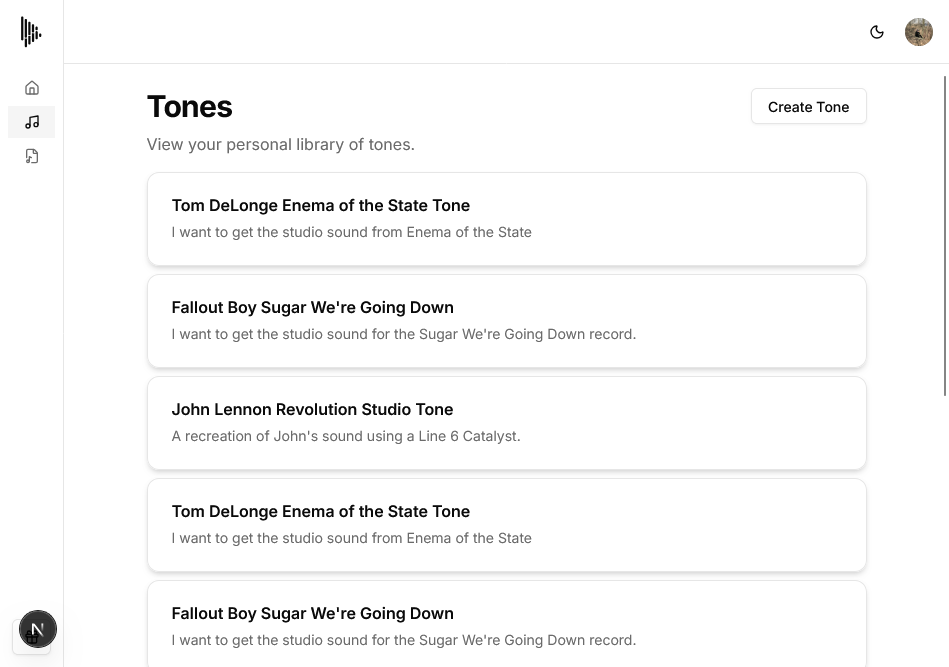
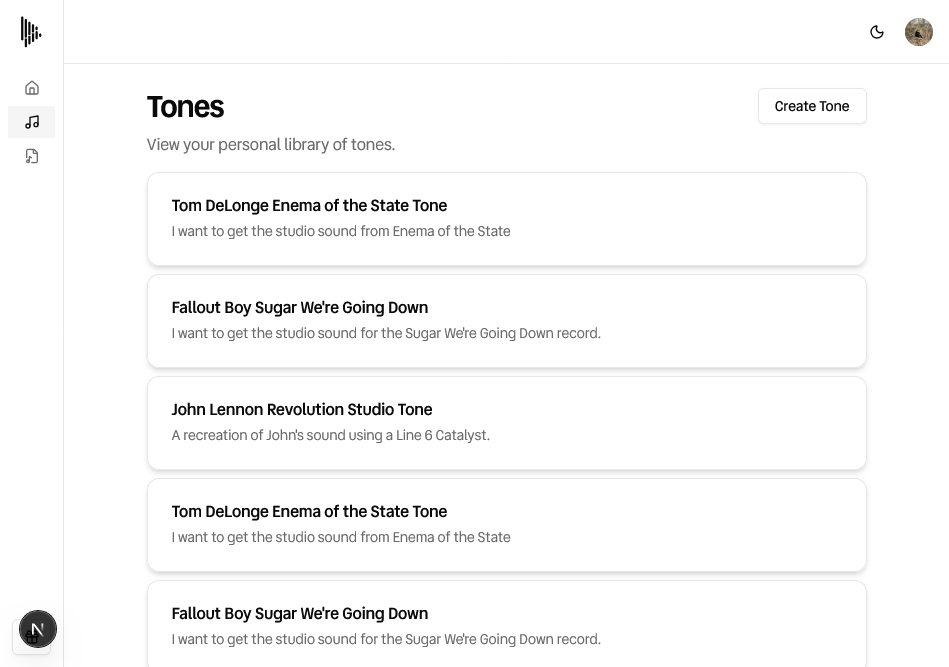
Landing page styling and font change

diff --git a/components/Header.tsx b/components/Header.tsx
@@ -4,19 +4,53 @@ import { SignedIn, SignedOut, SignInButton, SignUpButton, UserButton } from '@cl
 import { Button } from '@/components/ui/button';
 import { useState } from 'react';
 import { Menu, X } from 'lucide-react';
+import Image from 'next/image';
+import logo from '@/public/logo.svg';
+import logoDark from '@/public/logoDark.svg';
+import logoMobile from '@/public/logoMobile.svg';
+import logoMobileDark from '@/public/logoMobileDark.svg';
 
 export default function Header() {
   const [mobileMenu, setMobileMenu] = useState<boolean>(false);
   const navLinks = [
     { href: '#features', title: 'Features' },
     { href: '#pricing', title: 'Pricing' },
+    { href: '#get-started', title: 'Get started' },
   ];
 
   return (
-    <header className="bg-background fixed top-0 right-0 left-0 z-50 shadow-sm">
+    <header className="bg-background fixed top-0 right-0 left-0 z-50 border-b shadow-sm">
       <div className="relative flex items-center justify-between p-4">
-        <Link href="/">
-          <h1 className="text-xl font-bold italic">tono</h1>
+        <Link href="/" className="flex items-center">
+          {/* Light mode - Desktop logo */}
+          <Image
+            src={logo}
+            alt="Tonifier logo"
+            className="hidden h-8 w-auto lg:block dark:lg:hidden"
+            priority
+          />
+          {/* Light mode - Mobile logo */}
+          <Image
+            src={logoMobile}
+            alt="Tonifier logo"
+            className="block h-8 w-auto lg:hidden dark:hidden"
+            priority
+          />
+
+          {/* Dark mode - Desktop logo */}
+          <Image
+            src={logoDark}
+            alt="Tonifier logo"
+            className="hidden h-8 w-auto dark:lg:block"
+            priority
+          />
+          {/* Dark mode - Mobile logo */}
+          <Image
+            src={logoMobileDark}
+            alt="Tonifier logo"
+            className="hidden h-8 w-auto dark:block lg:dark:hidden"
+            priority
+          />
         </Link>
 
         <div className="flex items-center gap-8">
@@ -34,10 +68,12 @@ export default function Header() {
         <nav className="hidden items-center justify-between gap-4 lg:flex">
           <SignedOut>
             <SignUpButton>
-              <Button variant={'outline'}>Sign up</Button>
+              <Button variant={'outline'} className="cursor-pointer">
+                Sign up
+              </Button>
             </SignUpButton>
             <SignInButton>
-              <Button>Sign in</Button>
+              <Button className="cursor-pointer">Sign in</Button>
             </SignInButton>
           </SignedOut>
           <SignedIn>
@@ -62,14 +98,16 @@ export default function Header() {
             <nav className="bg-background fixed top-0 right-0 z-60 flex h-screen w-[80%] flex-col gap-4 p-8 pt-20 lg:hidden">
               <SignedOut>
                 {navLinks.map((link) => (
-                  <Link href={link.href} className="hover:text-primary text-sm font-medium">
+                  <Link
+                    key={link.title}
+                    href={link.href}
+                    className="hover:text-primary text-sm font-medium"
+                  >
                     {link.title}
                   </Link>
                 ))}
                 <SignUpButton>
-                  <Button variant={'outline'} className="text-base">
-                    Sign up
-                  </Button>
+                  <Button variant={'outline'}>Sign up</Button>
                 </SignUpButton>
                 <SignInButton>
                   <Button>Sign in</Button>

diff --git a/components/home/Pricing.tsx b/components/home/Pricing.tsx
@@ -92,8 +92,8 @@ export default function Pricing({ hasActiveSubscription = false }: PricingProps)
   };
 
   return (
-    <section id="pricing">
-      <div className="mx-auto flex max-w-7xl flex-col items-center justify-center gap-12 p-8 lg:p-32">
+    <section id="pricing" className="bg-primary/25">
+      <div className="mx-auto flex max-w-7xl flex-col items-center justify-center gap-16 p-8 lg:p-32">
         <div className="flex flex-col items-center justify-center gap-4 text-center">
           <h2 className="text-4xl font-bold lg:text-5xl">Simple, Transparent Pricing</h2>
           <p>
@@ -111,7 +111,7 @@ export default function Pricing({ hasActiveSubscription = false }: PricingProps)
             return (
               <Card
                 key={tier.name}
-                className="last:border-primary last:from-background last:via-background last:to-primary/50 flex flex-col shadow-md last:bg-linear-to-tr"
+                className="last:border-primary last:from-background last:via-background last:to-primary/50 flex flex-col shadow-md transition-transform last:bg-linear-to-tr hover:-translate-y-2"
               >
                 <CardHeader>
                   <div className="flex items-center justify-between">
@@ -137,7 +137,7 @@ export default function Pricing({ hasActiveSubscription = false }: PricingProps)
 
                 <CardFooter>
                   <Button
-                    className="w-full"
+                    className="w-full cursor-pointer"
                     variant={tier.priceId ? 'default' : 'outline'}
                     disabled={isLoading}
                     onClick={() => {

diff --git a/components/home/GetStarted.tsx b/components/home/GetStarted.tsx
@@ -1,0 +1,31 @@
+import { SignedOut, SignUpButton } from '@clerk/nextjs';
+import { Button } from '@/components/ui/button';
+import { Badge } from '@/components/ui/badge';
+import getStarted from '@/public/get-started.png';
+import Image from 'next/image';
+
+export default function GetStarted() {
+  return (
+    <section id="get-started">
+      <div className="mx-auto grid max-w-7xl grid-cols-1 items-center justify-center gap-16 p-8 md:grid-cols-2 lg:flex-row lg:p-32">
+        <div className="flex flex-col items-center justify-center gap-4 text-center lg:items-start lg:text-left">
+          <Badge variant={'outline'}>Join Today</Badge>
+          <h2 className="text-4xl font-bold lg:text-5xl">Get started today for free</h2>
+          <p>Immediately gain access to five generation credits for recreating your dream tones.</p>
+          <SignedOut>
+            <SignUpButton>
+              <Button className="cursor-pointer">Get started</Button>
+            </SignUpButton>
+          </SignedOut>
+        </div>
+        <div>
+          <Image
+            className="w-full rounded-2xl border shadow-2xl"
+            src={getStarted}
+            alt="Tone detail page screenshot"
+          />
+        </div>
+      </div>
+    </section>
+  );
+}

diff --git a/app/layout.tsx b/app/layout.tsx
@@ -1,12 +1,12 @@
 import type { Metadata } from 'next';
-import { Vend_Sans } from 'next/font/google';
+import { Quicksand } from 'next/font/google';
 import './globals.css';
 import { ClerkProvider } from '@clerk/nextjs';
 import { Providers } from './providers';
 import { Toaster } from '@/components/ui/sonner';
 
-const vendSans = Vend_Sans({
-  variable: '--font-vend',
+const quicksandSans = Quicksand({
+  variable: '--font-quicksand',
   subsets: ['latin'],
   weight: ['300', '400', '500', '600', '700'],
 });
@@ -25,7 +25,9 @@ export default function RootLayout({
   return (
     <ClerkProvider>
       <html lang="en" suppressHydrationWarning>
-        <body className={`${vendSans.variable} ${vendSans.className} font-sans antialiased`}>
+        <body
+          className={`${quicksandSans.variable} ${quicksandSans.className} font-sans antialiased`}
+        >
           <Providers>{children}</Providers>
           <Toaster />
         </body>

diff --git a/components/home/Features.tsx b/components/home/Features.tsx
@@ -1,6 +1,6 @@
 import { Clock, Guitar, Library, RefreshCw, Sparkles, Zap } from 'lucide-react';
-import { Badge } from '../ui/badge';
-import { Card, CardContent, CardDescription, CardHeader, CardTitle } from '../ui/card';
+import { Badge } from '@/components/ui/badge';
+import { Card, CardContent, CardDescription, CardHeader, CardTitle } from '@/components/ui/card';
 
 export default function Features() {
   const features = [
@@ -44,7 +44,7 @@ export default function Features() {
 
   return (
     <section id="features">
-      <div className="mx-auto flex max-w-7xl flex-col items-center justify-center gap-12 p-8 lg:p-32">
+      <div className="mx-auto flex max-w-7xl flex-col items-center justify-center gap-16 p-8 lg:p-32">
         <div className="flex flex-col items-center justify-center gap-4 text-center">
           <Badge variant={'outline'}>Our Features</Badge>
           <h2 className="text-4xl font-bold lg:text-5xl">

diff --git a/components/home/Hero.tsx b/components/home/Hero.tsx
@@ -23,16 +23,15 @@ export default function Hero() {
           <div className="flex items-center gap-3">
             <SignedOut>
               <SignUpButton>
-                <Button>Get started</Button>
+                <Button className="cursor-pointer">Get started</Button>
               </SignUpButton>
             </SignedOut>
           </div>
         </div>
         <div>
           <Image
-            className="rounded-2xl border shadow-2xl"
+            className="w-full rounded-2xl border shadow-2xl"
             src={hero}
-            width={720}
             alt="Tone dashboard page screenshot"
           />
         </div>

diff --git a/components/dashboard/ManageSubscriptionButton.tsx b/components/dashboard/ManageSubscriptionButton.tsx
@@ -29,7 +29,7 @@ export default function ManageSubscriptionButton() {
   };
 
   return (
-    <Button onClick={handleManage} disabled={loading} variant="outline">
+    <Button className="cursor-pointer" onClick={handleManage} disabled={loading} variant="outline">
       <Settings className="mr-2 h-4 w-4" />
       {loading ? 'Loading...' : 'Manage Subscription'}
     </Button>

diff --git a/app/(home)/page.tsx b/app/(home)/page.tsx
@@ -1,4 +1,5 @@
 import Features from '@/components/home/Features';
+import GetStarted from '@/components/home/GetStarted';
 import Hero from '@/components/home/Hero';
 import Pricing from '@/components/home/Pricing';
 
@@ -8,6 +9,7 @@ export default function Home() {
       <Hero />
       <Features />
       <Pricing />
+      <GetStarted />
     </div>
   );
 }

diff --git a/app/(app)/dashboard/layout.tsx b/app/(app)/dashboard/layout.tsx
@@ -1,5 +1,5 @@
-import Header from '@/components/dashboard/layout/Header';
-import Sidebar from '@/components/dashboard/layout/Sidebar';
+import Header from '@/components/dashboard/Header';
+import Sidebar from '@/components/dashboard/Sidebar';
 import React from 'react';
 import { auth } from '@clerk/nextjs/server';
 import { redirect } from 'next/navigation';

diff --git a/app/globals.css b/app/globals.css
@@ -6,7 +6,7 @@
 @theme inline {
   --color-background: var(--background);
   --color-foreground: var(--foreground);
-  --font-family: var(--font-vend);
+  --font-family: var(--font-quicksand);
   --color-sidebar-ring: var(--sidebar-ring);
   --color-sidebar-border: var(--sidebar-border);
   --color-sidebar-accent-foreground: var(--sidebar-accent-foreground);

diff --git a/app/(home)/layout.tsx b/app/(home)/layout.tsx
@@ -1,5 +1,5 @@
-import Header from '@/components/layout/Header';
-import Footer from '@/components/layout/Footer';
+import Header from '@/components/Header';
+import Footer from '@/components/Footer';
 import React from 'react';
 
 export default function MarketingLayout({ children }: { children: React.ReactNode }) {

diff --git a/components/Footer.tsx b/components/Footer.tsx
@@ -1,0 +1,9 @@
+export default function Footer() {
+  const year = new Date().getFullYear();
+
+  return (
+    <footer className="bg-background border-t">
+      <div className="p-4 text-sm">&copy; {year} tono. All rights reserved.</div>
+    </footer>
+  );
+}
